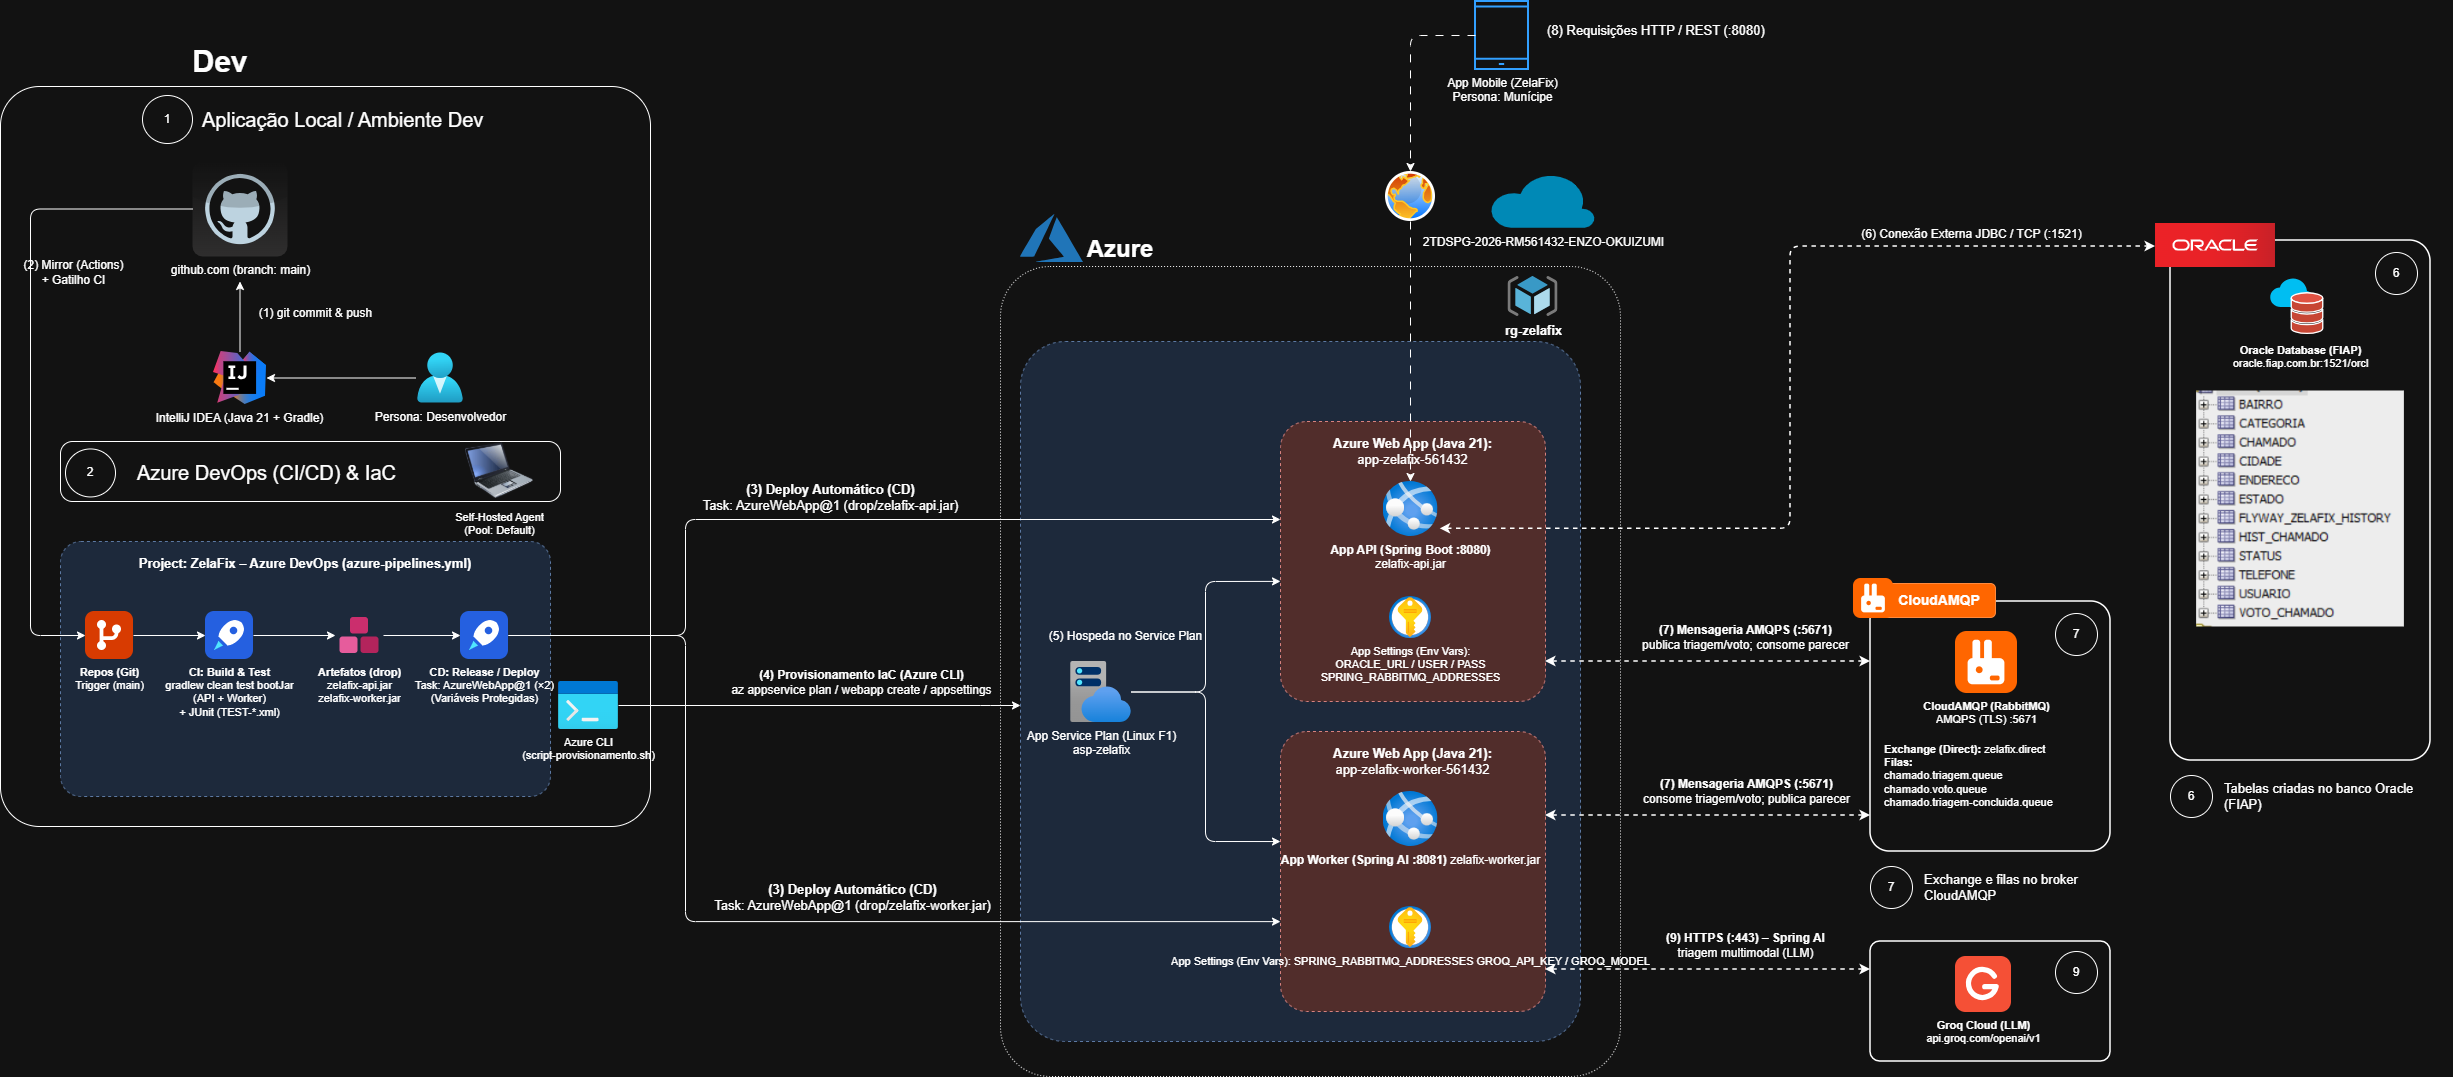
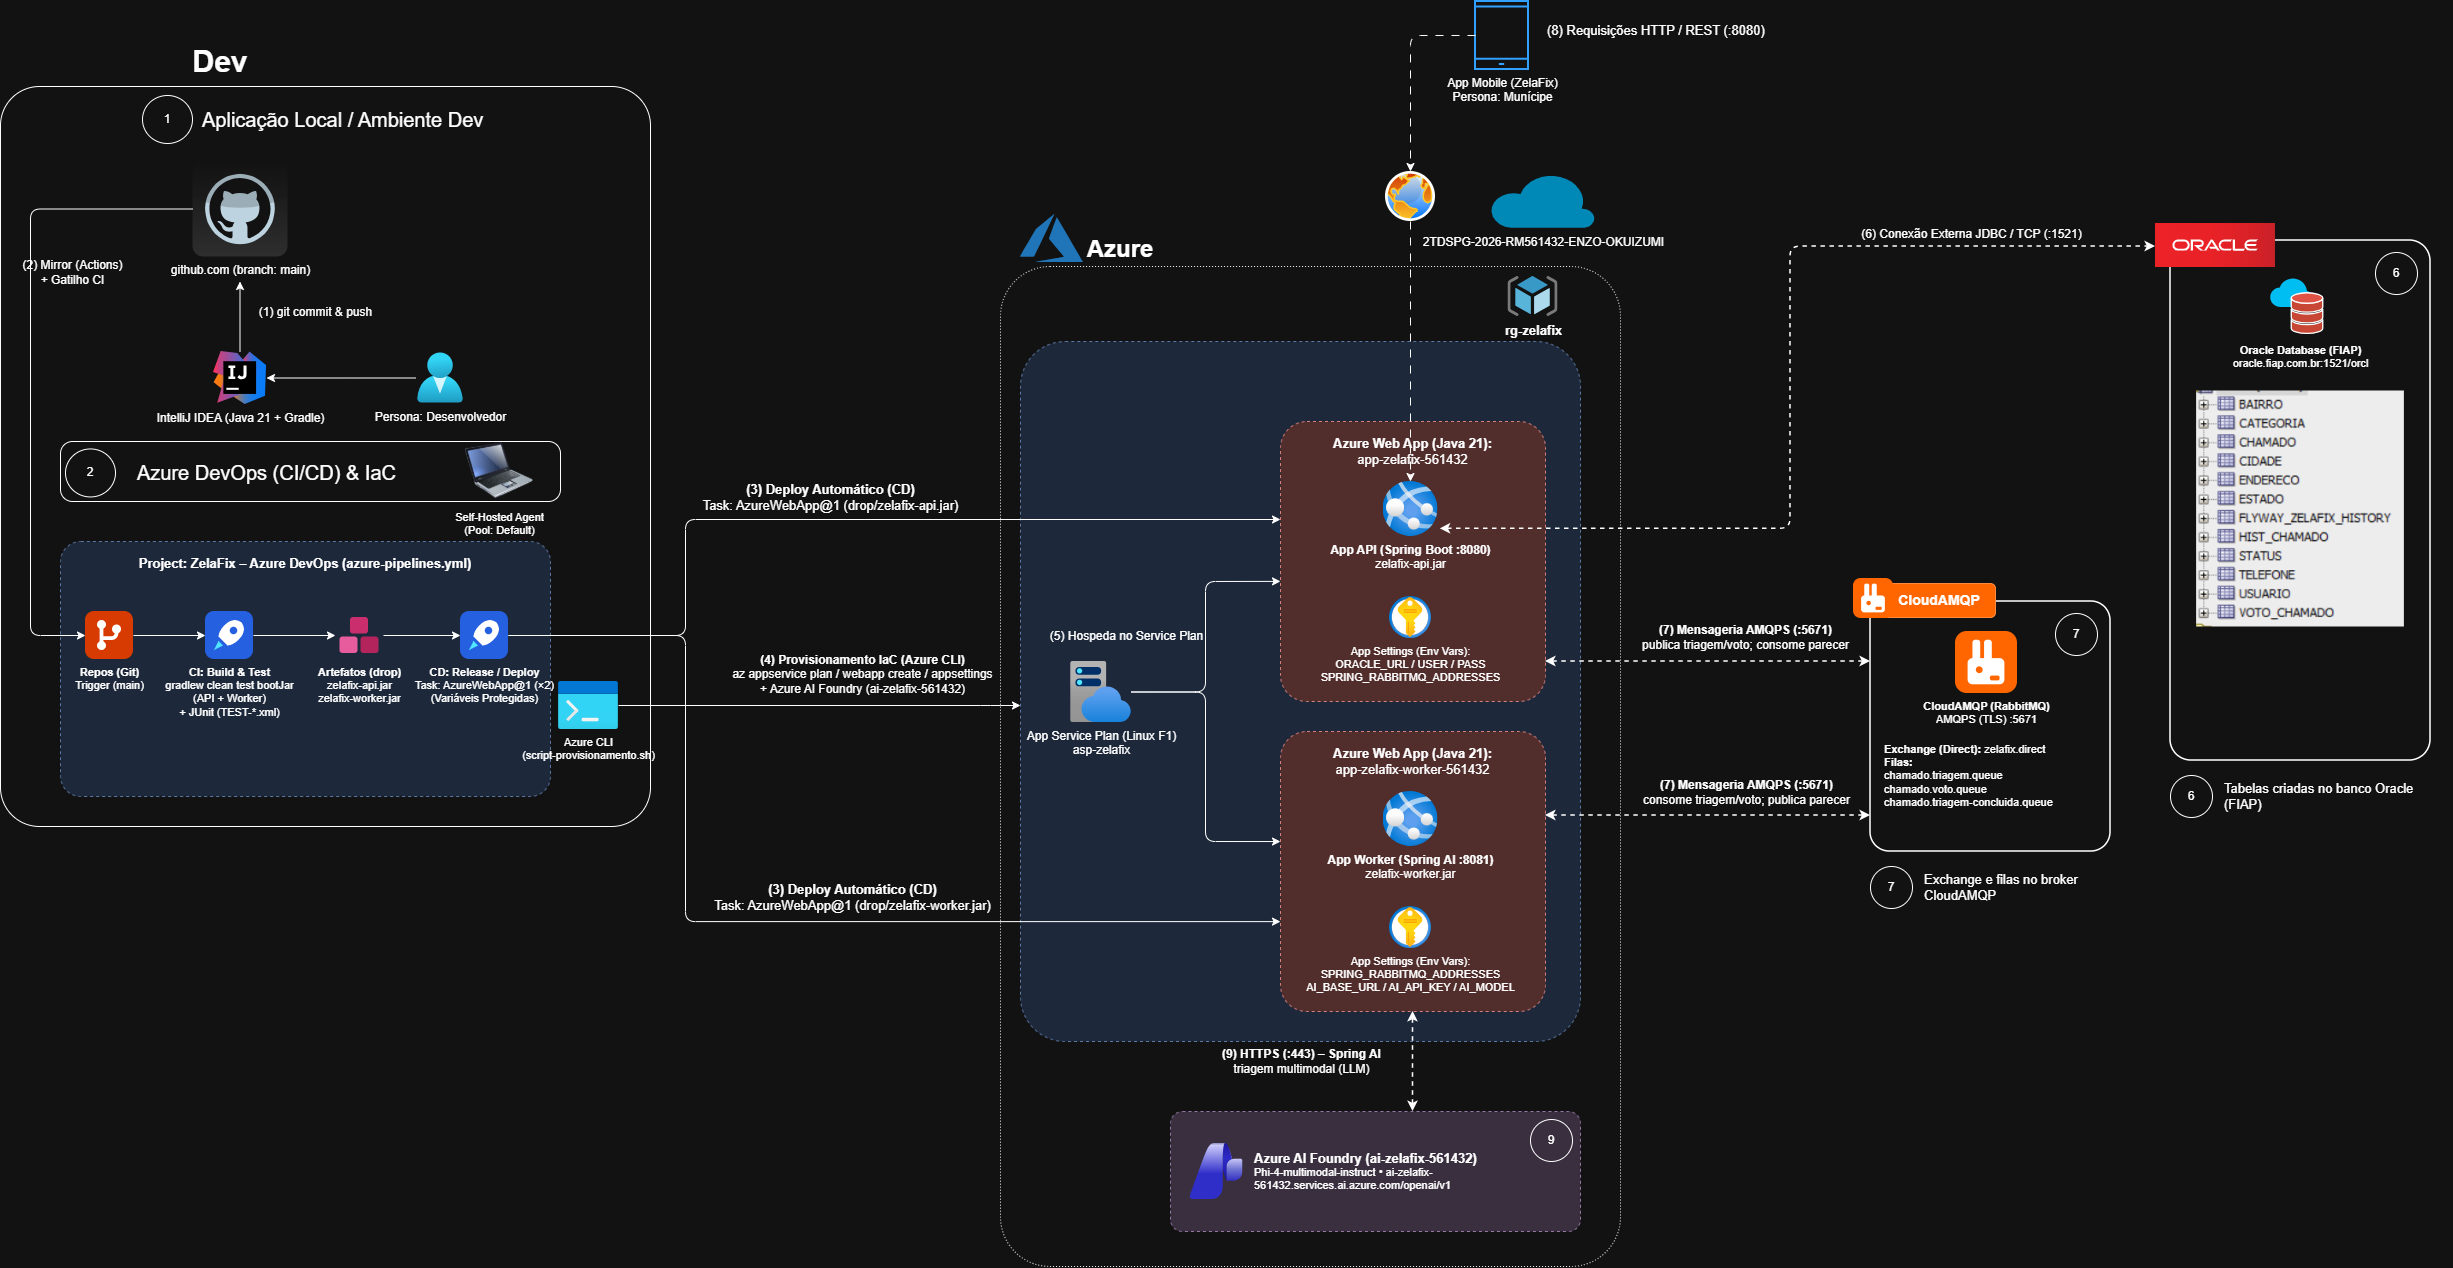
chore(devops): atualizar scripts, diagrama e README para Azure AI Foundry

diff --git a/README.md b/README.md
@@ -25,20 +25,25 @@
 
 | Recurso | Descrição | Link |
 |---|---|---|
-| 🌐 **API em Produção (Azure Web App)** | Endpoint base do App Service da API REST (Plano F1 Linux - Porta 8080) | `https://app-zelafix-561432.azurewebsites.net` |
-| 📖 **Swagger UI Interativo (Produção)** | Console OpenAPI interativo com documentação dos endpoints da API | `https://app-zelafix-561432.azurewebsites.net/swagger-ui.html` |
-| 🩺 **Actuator Health (API)** | Healthcheck em tempo real da API (Oracle DB + Liveness) | `https://app-zelafix-561432.azurewebsites.net/actuator/health` |
-| ⚙ **Worker em Produção (Azure Web App)** | Host do Worker Assíncrono de Triagem Inteligente com Spring AI (Porta 8081) | `https://app-zelafix-worker-561432.azurewebsites.net` |
-| 🩺 **Actuator Health (Worker)** | Healthcheck em tempo real do Worker (RabbitMQ + Groq AI Liveness) | `https://app-zelafix-worker-561432.azurewebsites.net/actuator/health` |
-| 📊 **OpenAPI Spec (JSON)** | Especificação OpenAPI 3.0 para consumo do app Mobile | `https://app-zelafix-561432.azurewebsites.net/v3/api-docs` |
-| 🚀 **Projeto no Azure DevOps** | Organização e Projeto Privado com Boards, Repos e Pipelines | `https://dev.azure.com/ZelaFixGS/ZelaFix` |
-| 💻 **Repositório GitHub (DevOps)** | Repositório de IaC, Dockerfiles e scripts de automação | [DevOps-Tools-Cloud-Computing](https://github.com/Global-Solution-CitizenTech/DevOps-Tools-Cloud-Computing) |
-| ☕ **Repositório GitHub (Java Advanced)** | Código-fonte da aplicação Spring Boot, Dockerfiles e suíte de testes | [Java-Advanced](https://github.com/Global-Solution-CitizenTech/Java-Advanced) |
-| 🎥 **Vídeo de Demonstração (YouTube)** | Demonstração narrada por voz com esteira completa e CRUD | *(Link YouTube a ser inserido após gravação)* |
+| 🌐 **API em Produção (Azure Web App)** | Endpoint base do App Service da API REST (Plano F1 Linux - Porta 8080) | https://app-zelafix-561432.azurewebsites.net |
+| 📖 **Swagger UI Interativo (Produção)** | Console OpenAPI interativo com documentação dos endpoints da API | https://app-zelafix-561432.azurewebsites.net/swagger-ui.html |
+| 🩺 **Actuator Health (API)** | Healthcheck em tempo real da API (Oracle DB + Liveness) | https://app-zelafix-561432.azurewebsites.net/actuator/health |
+| ⚙ **Worker em Produção (Azure Web App)** | Host do Worker Assíncrono de Triagem Inteligente com Spring AI (Porta 8081) | https://app-zelafix-worker-561432.azurewebsites.net |
+| 🩺 **Actuator Health (Worker)** | Healthcheck em tempo real do Worker (RabbitMQ + Azure AI Foundry Liveness) | https://app-zelafix-worker-561432.azurewebsites.net/actuator/health |
+| 📊 **OpenAPI Spec (JSON)** | Especificação OpenAPI 3.0 para consumo do app Mobile | https://app-zelafix-561432.azurewebsites.net/v3/api-docs |
+| 🚀 **Projeto no Azure DevOps** | Organização e Projeto Privado com Boards, Repos e Pipelines | https://dev.azure.com/ZelaFixGS/ZelaFix |
+| 💻 **Repositório GitHub (DevOps)** | Repositório de IaC, Dockerfiles e scripts de automação | https://github.com/Global-Solution-CitizenTech/DevOps-Tools-Cloud-Computing |
+| ☕ **Repositório GitHub (Java Advanced)** | Código-fonte da aplicação Spring Boot, Dockerfiles e suíte de testes | https://github.com/Global-Solution-CitizenTech/Java-Advanced |
 
 ---
 
-## 👥 Integrantes do Grupo (Ordem Alfabética Estrita)
+## 🔗 Vídeo de Demonstração (Global Solution 2)
+
+*(Link do YouTube será inserido após gravação)*
+
+---
+
+## 👥 Integrantes do Grupo
 
 | RM | Nome Completo | Turma | Papel / GitHub |
 | :---: | :--- | :---: | :--- |
@@ -58,7 +63,7 @@ O **ZelaFix** é uma plataforma corporativa de **zeladoria urbana colaborativa**
 * **Canal Cidadão:** Abertura simplificada de ocorrências georreferenciadas com fotos e descrição detalhada.
 * **Engajamento Comunitário:** Sistema de apoio e votos por munícipes da mesma região para priorização coletiva de chamados perante a administração pública.
 * **Painel da Gestão Municipal:** Rastreabilidade do ciclo de vida dos chamados (`ABERTO`, `PENDENTE`, `EM_ANALISE`, `EM_EXECUCAO`, `CONCLUIDO`, `REJEITADO`) com histórico cronológico auditável.
-* **Triagem Inteligente Desacoplada:** Triagem automatizada via LLM multimodal (Groq / Qwen 3.8 27B Vision) processada de forma assíncrona pelo microsserviço Worker via RabbitMQ, sem onerar a API REST nem o banco relacional.
+* **Triagem Inteligente Desacoplada:** Triagem automatizada via LLM multimodal (Azure AI Foundry — `Phi-4-multimodal-instruct`) processada de forma assíncrona pelo microsserviço Worker via RabbitMQ, sem onerar a API REST nem o banco relacional.
 
 ### 🛠 Stack Tecnológica & Decisões de Engenharia
 
@@ -84,7 +89,7 @@ O **ZelaFix** é uma plataforma corporativa de **zeladoria urbana colaborativa**
   <img src="./docs/gs2-zelafix-diagrama.png" alt="Arquitetura em Nuvem Microsoft Azure & Esteira CI/CD ZelaFix" width="100%" />
 </p>
 
-> *Diagrama arquitetural completo gerado no Draw.io ([docs/gs2-zelafix-diagrama.drawio](./docs/gs2-zelafix-diagrama.drawio)) ilustrando o espelhamento GitHub ↔ Azure Repos, governança no Azure Boards, esteira CI/CD multi-service no Azure Pipelines, mensageria CloudAMQP TLS, persistência Oracle 19c e integração de visão multimodal com Groq API.*
+> *Diagrama arquitetural completo gerado no Draw.io ([docs/gs2-zelafix-diagrama.drawio](./docs/gs2-zelafix-diagrama.drawio)) ilustrando o espelhamento GitHub ↔ Azure Repos, governança no Azure Boards, esteira CI/CD multi-service no Azure Pipelines, mensageria CloudAMQP TLS, persistência Oracle 19c e integração de visão multimodal com Azure AI Foundry (`phi-4-multimodal`).*
 
 ### 🔢 Descrição Detalhada das 10 Etapas da Esteira:
 
@@ -124,7 +129,7 @@ O backend utiliza o banco de dados corporativo **Oracle Database 19c** hospedado
   - *Nível da Organização:* **Basic**
   - *Nível do Projeto:* **Project Administrators**
 * **Segurança e DevSecOps (Variáveis Protegidas):**
-  - Credenciais de banco de dados (`ORACLE_PASSWORD`, `ORACLE_URL`, `ORACLE_USER`), token do RabbitMQ (`SPRING_RABBITMQ_ADDRESSES`) e API Key do Groq AI (`GROQ_API_KEY`) são cadastradas como **Secrets** mascarados nas variáveis da pipeline e no Application Settings dos Web Apps, sem exposição de texto puro no repositório Git.
+  - Credenciais de banco de dados (`ORACLE_PASSWORD`, `ORACLE_URL`, `ORACLE_USER`), token do RabbitMQ (`SPRING_RABBITMQ_ADDRESSES`) e chave da IA (`AI_API_KEY`) são cadastradas como **Secrets** mascarados nas variáveis da pipeline e no Application Settings dos Web Apps, sem exposição de texto puro no repositório Git.
 
 ---
 
@@ -256,64 +261,17 @@ Abaixo constam os payloads representativos para execução das operações de **
 
 ---
 
-## 8. 🎥 Roteiro Sequencial para Gravação do Vídeo de Demonstração
-
-Para atender estritamente aos 10 passos obrigatórios exigidos pelo edital da Global Solution 2 e garantir pontuação máxima (sem sofrer penalidades de 20 a 30 pontos), a gravação do vídeo narrado por voz deve seguir esta ordem cronológica:
-
-| Passo | Tela / Ferramenta | O que Fazer e Narrar | Requisito do Edital Atendido |
-|:---:|:---|:---|:---|
-| **1** | Navegador (README) | Apresentar o `README.md`, contextualizar a proposta CitizenTech (ZelaFix), os integrantes e explicar o desenho macro da arquitetura em nuvem e mensageria. | *Roteiro Passo 1* |
-| **2** | Portal Microsoft Azure | Exibir o Resource Group `rg-zelafix`, o App Service Plan `asp-zelafix` (F1 Free) e os dois Web Apps (`app-zelafix` e `app-zelafix-worker`) criados pelo script Azure CLI. | *Roteiro Passo 2* |
-| **3** | Azure Boards | Acessar o Azure Boards e criar uma nova Tarefa (ex: *"Ajuste de mensagem da API ZelaFix no endpoint info"*). | *Roteiro Passo 3* |
-| **4** | IDE / Terminal Git | Criar uma nova branch a partir da tarefa no Boards, realizar uma alteração visível no **código-fonte** da aplicação Java (ex: adicionar mensagem em um controller ou no actuator), commitar e enviar para o repositório. *(Atenção: NÃO alterar apenas README)*. | *Roteiro Passo 4* |
-| **5** | Azure Repos | Abrir o Pull Request vinculando a Tarefa do Boards, aprovar a PR e concluir o Merge para a branch principal `main`. Mostrar o gatilho automático disparando a pipeline de CI. | *Roteiro Passo 5* |
-| **6** | Azure Pipelines (CI) | Acompanhar a execução da esteira de CI: destacar a compilação Gradle Multi-Project, a execução dos 186 testes JUnit com 100% de sucesso e a geração dos artefatos `drop/zelafix-api.jar` e `drop/zelafix-worker.jar`. | *Roteiro Passo 6* |
-| **7** | Azure Pipelines (CD) | Demonstrar o início automático do estágio de Release (CD) publicando os binários nos Azure App Services. | *Roteiro Passo 7* |
-| **8** | Portal Azure / Navegador | Acessar a URL do Web App em nuvem (`https://app-zelafix-561432.azurewebsites.net`) e evidenciar que a alteração realizada no código já está online e ativa. | *Roteiro Passo 8* |
-| **9** | Swagger UI + Cliente SQL (DBeaver/SQL Developer) | **Gravação contínua sem cortes:** Executar operações completas de CRUD (Create, Read, Update, Delete) em pelo menos duas tabelas distintas (`USUARIO` e `CHAMADO`). Imediatamente após cada operação, rodar comandos `SELECT * FROM ...` diretamente no banco Oracle da FIAP provando a persistência real dos dados em nuvem. | *Roteiro Passo 9 (Penalidade grave se ausente)* |
-| **10** | Azure Boards | Retornar ao Azure Boards e exibir a Tarefa concluída com todo o histórico de vínculos associados (Branch, Commits e Pull Request rastreados). | *Roteiro Passo 10* |
-
----
-
-## 9. ✅ Matriz de Conformidade com os Requisitos Técnicos
-
-| Requisito | Descrição Oficial | Status | Evidência no Repositório |
-|:---:|:---|:---:|:---|
-| **01** | Repositório Git privado e versionado | ✅ Atendido | Repositório privado com controle de versão Git e espelhamento GitHub ↔ Azure Repos |
-| **02** | Azure Boards vinculado ao Repos com rastreabilidade | ✅ Atendido | Work Items vinculados a branches, commits e PRs |
-| **03** | Branch `main` protegida por políticas (revisor e work item) | ✅ Atendido | Políticas de branch configuradas com revisor e restrição de push direto |
-| **04** | Pipeline de CI disparada apenas após Merge via PR na `main` | ✅ Atendido | Configurado no gatilho do `azure-pipelines.yml` |
-| **05** | Aluno autorizado a aprovar a própria PR (simulação acadêmica) | ✅ Atendido | Habilitado nas permissões de branch policies |
-| **06** | Pipeline de Release executa automaticamente após CI | ✅ Atendido | Estágio `Deploy` condicionado ao sucesso do estágio `Build` |
-| **07** | Deploy da aplicação via PaaS (App Service) | ✅ Atendido | Azure App Service Linux (PaaS) em plano F1 |
-| **08** | Banco de dados hospedado em nuvem (Oracle FIAP Cloud) | ✅ Atendido | Oracle Database 19c Corporativo FIAP Cloud |
-| **09** | Scripts de infraestrutura versionados no repositório | ✅ Atendido | [`scripts/script-provisionamento.sh`](./scripts/script-provisionamento.sh) |
-| **10** | DDL dos objetos de banco de dados documentados | ✅ Atendido | [`scripts/script-bd.sql`](./scripts/script-bd.sql) com 11 tabelas 3FN |
-| **11** | Scripts de automação Azure CLI | ✅ Atendido | [`scripts/script-provisionamento.sh`](./scripts/script-provisionamento.sh) |
-| **12** | Dockerfiles na pasta `/dockerfiles` | ✅ Atendido | [`dockerfiles/Dockerfile.api`](./dockerfiles/Dockerfile.api) e [`dockerfiles/Dockerfile.worker`](./dockerfiles/Dockerfile.worker) |
-| **13** | Arquivo de pipeline CI/CD na raiz do repositório | ✅ Atendido | [`azure-pipelines.yml`](./azure-pipelines.yml) |
-| **14** | Payloads JSON de exemplo para teste de CRUD no README | ✅ Atendido | Documentados na Seção 7 |
-| **15** | Utilização de variáveis de ambiente sem senhas em texto puro | ✅ Atendido | Parametrização via secrets no Azure DevOps e Application Settings |
-| **16** | Desenho macro da arquitetura em nuvem (diagrama e fluxo) | ✅ Atendido | Diagramas ASCII e descrições documentadas na Seção 2 |
-| **17** | Execução de testes 100% automática na esteira de CI | ✅ Atendido | Execução de 186 testes JUnit e publicação via `PublishTestResults@2` |
-
----
-
-## 10. 📁 Estrutura de Arquivos deste Repositório
+## 8. 📁 Estrutura de Arquivos deste Repositório
 
 ```text
 DevOps-Tools-Cloud-Computing/
 ├── dockerfiles/
 │   ├── Dockerfile.api                  # Dockerfile da API REST (Temurin 21 JRE Alpine)
 │   └── Dockerfile.worker               # Dockerfile do Worker Assíncrono de IA (Temurin 21 JRE Alpine)
-├── docs/                               # Diagramas, evidências e imagens de apoio (rua-esburacada.png)
+├── docs/                               # Diagramas, evidências e imagens de apoio
 ├── scripts/
 │   ├── script-bd.sql                   # DDL oficial Oracle 19c com 11 tabelas em 3FN e constraints
-│   └── script-provisionamento.sh       # Script Bash (Azure CLI) declarativo para provisionamento do RG, Plan e Web Apps
+│   └── script-provisionamento.sh       # Script Bash (Azure CLI) declarativo para provisionamento do RG, Plan, AI Foundry e Web Apps
 ├── azure-pipelines.yml                 # Definição oficial da esteira CI/CD (Build, Testes, Artefatos e Deploy)
-└── README.md                           # Documentação técnica consolidada da disciplina
+└── README.md                           # Documentação técnica consolidada
 ```
-
----
-
-> **ZelaFix** — Tecnologia com o Cidadão no Centro da Inovação Urbana.
